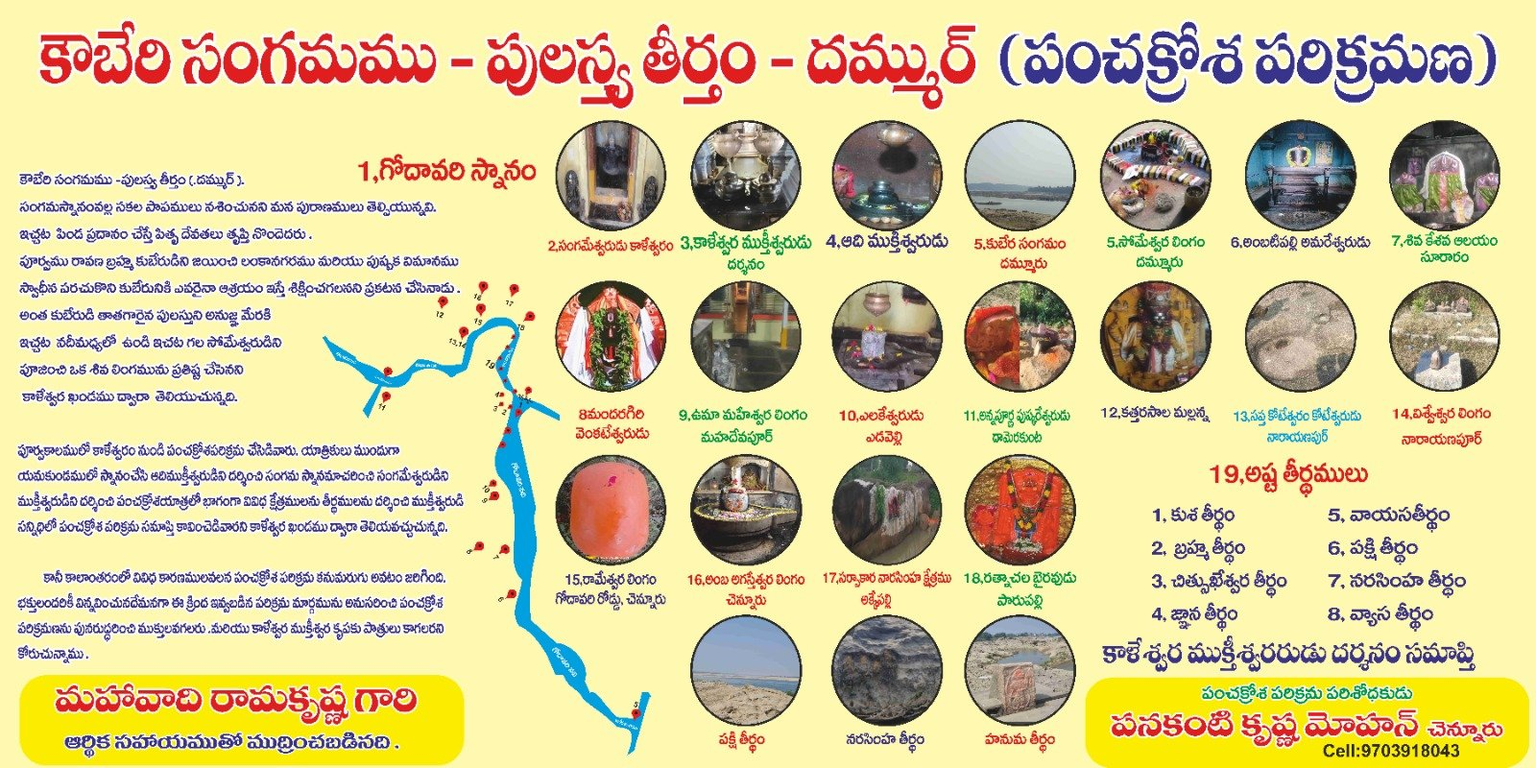
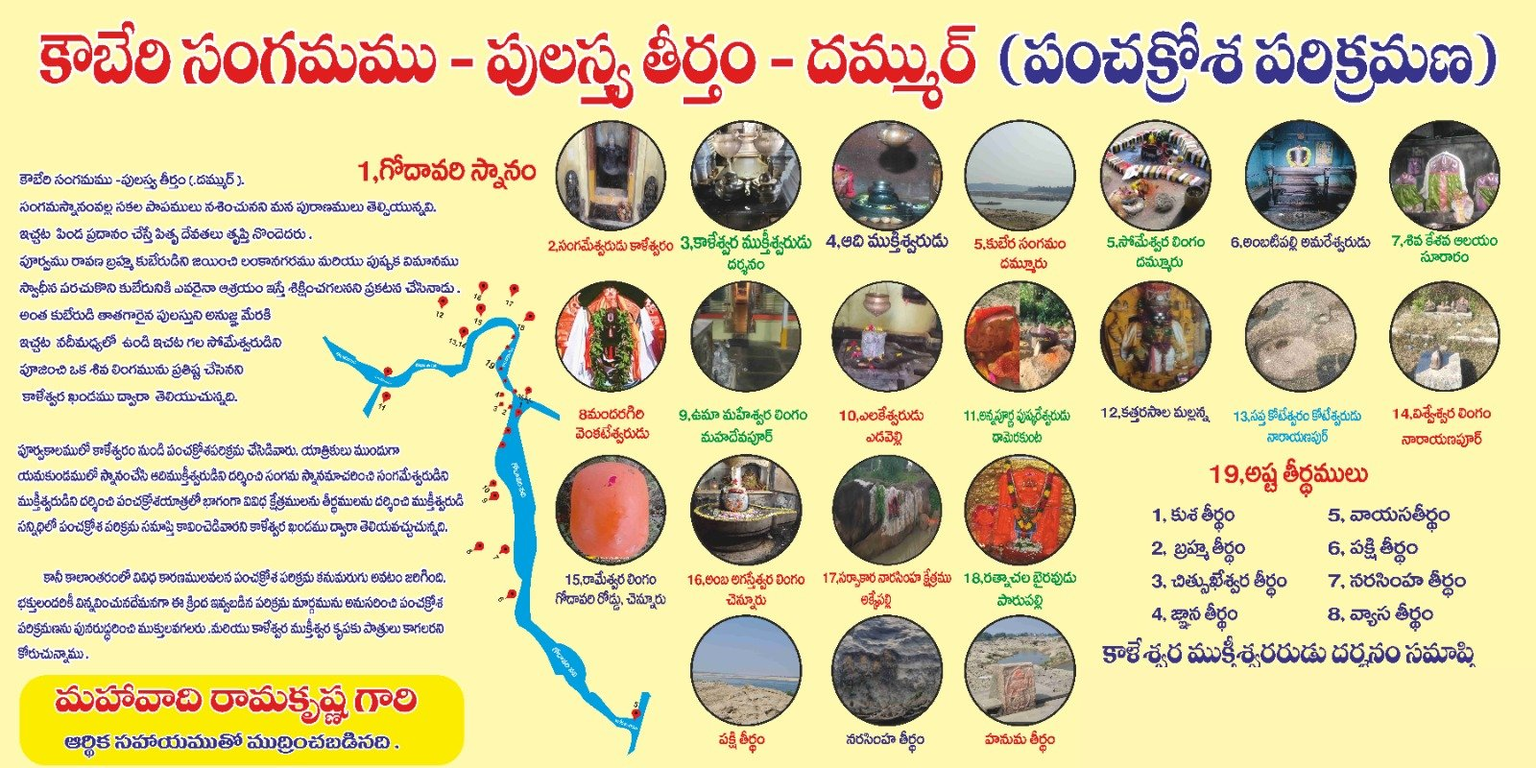
Add files via upload

Changed region(s): [[0.6875, 0.875, 1.0, 1.0]]

diff --git a/kaleshwaram-temples.html b/kaleshwaram-temples.html
@@ -42,7 +42,7 @@ footer a{color:#ffd28a}
 </style>
 <script type="application/ld+json">{"@context": "https://schema.org", "@type": "BreadcrumbList", "itemListElement": [{"@type": "ListItem", "position": 1, "name": "Home", "item": "https://rekshetratours.com/"}, {"@type": "ListItem", "position": 2, "name": "Kaleshwaram Parikrama", "item": "https://rekshetratours.com/kaleshwaram.html"}, {"@type": "ListItem", "position": 3, "name": "దేవాలయాలు", "item": "https://rekshetratours.com/kaleshwaram-temples.html"}]}</script>
 <script type="application/ld+json">{"@context": "https://schema.org", "@type": "Article", "headline": "కాళేశ్వరం దేవాలయాలు – Kaleshwaram Temples | 50 KM క్షేత్రాలు, పరిక్రమణ", "inLanguage": "te", "about": "Kaleshwaram Panchakrosa Godavari Parikrama", "mainEntityOfPage": "https://rekshetratours.com/kaleshwaram-temples.html", "author": {"@type": "Organization", "name": "Rekshetra Tours"}, "publisher": {"@type": "Organization", "name": "Rekshetra Tours", "logo": {"@type": "ImageObject", "url": "https://rekshetratours.com/logo.jpg"}}}</script>
-<script type="application/ld+json">{"@context": "https://schema.org", "@type": "ItemList", "name": "కాళేశ్వరం పంచక్రోశ పరిక్రమణ క్షేత్రాలు – Temples of Kaleshwaram Parikrama", "itemListElement": [{"@type": "ListItem", "position": 1, "name": "Godavari Snanam", "url": "https://rekshetratours.com/godavari-snanam.html"}, {"@type": "ListItem", "position": 2, "name": "Sangameshwara – Eleshwaram", "url": "https://rekshetratours.com/sangameshwara-eleshwaram.html"}, {"@type": "ListItem", "position": 3, "name": "Sri Kaleshwara Muktheeshwara Swamy", "url": "https://rekshetratours.com/sri-kaleshwara-muktheeshwara-swamy.html"}, {"@type": "ListItem", "position": 4, "name": "Adi Muktheeshwara", "url": "https://rekshetratours.com/adi-muktheeshwara.html"}, {"@type": "ListItem", "position": 5, "name": "Kubera Sangamam", "url": "https://rekshetratours.com/kubera-sangamam.html"}, {"@type": "ListItem", "position": 6, "name": "Ambatpally Amareshwara", "url": "https://rekshetratours.com/ambatpally-amareshwara.html"}, {"@type": "ListItem", "position": 7, "name": "Shiva Narayana Kshetram, Suraram", "url": "https://rekshetratours.com/shiva-keshava-suraram.html"}, {"@type": "ListItem", "position": 8, "name": "Ramadevigiri Venkateshwara", "url": "https://rekshetratours.com/ramadevigiri-venkateshwara.html"}, {"@type": "ListItem", "position": 9, "name": "Uma Maheshwara Lingam, Mahadevpur", "url": "https://rekshetratours.com/uma-maheshwara-mahadevpur.html"}, {"@type": "ListItem", "position": 10, "name": "Elakeshwara, Edapalli", "url": "https://rekshetratours.com/elakeshwara-edapalli.html"}, {"@type": "ListItem", "position": 11, "name": "Annapurna Pushkareshwara, Damarakunta", "url": "https://rekshetratours.com/annapurna-pushkareshwara-damarakunta.html"}, {"@type": "ListItem", "position": 12, "name": "Kattarasala Mallanna", "url": "https://rekshetratours.com/kattarasala-mallanna.html"}, {"@type": "ListItem", "position": 13, "name": "Saptakoteshwara, Narayanapur", "url": "https://rekshetratours.com/saptakoteshwara-narayanapur.html"}, {"@type": "ListItem", "position": 14, "name": "Vishweshwara Lingam, Narayanapur", "url": "https://rekshetratours.com/vishweshwara-lingam-narayanapur.html"}, {"@type": "ListItem", "position": 15, "name": "Rameshwara Lingam, Chennur", "url": "https://rekshetratours.com/rameshwara-lingam-chennur.html"}, {"@type": "ListItem", "position": 16, "name": "Amba Agastheeshwara Lingam, Chennur", "url": "https://rekshetratours.com/amba-agastheeshwara-chennur.html"}, {"@type": "ListItem", "position": 17, "name": "Sarpakara Narasimha Kshetram, Akkipally", "url": "https://rekshetratours.com/sarvakara-narasimha-kshetram.html"}, {"@type": "ListItem", "position": 18, "name": "Ratnachala Bhairava, Parupelli", "url": "https://rekshetratours.com/ratnachala-bhairava-parupelli.html"}]}</script>
+<script type="application/ld+json">{"@context": "https://schema.org", "@type": "ItemList", "name": "కాళేశ్వరం పంచక్రోశ పరిక్రమణ క్షేత్రాలు – Temples of Kaleshwaram Parikrama", "itemListElement": [{"@type": "ListItem", "position": 1, "name": "Godavari Snanam", "url": "https://rekshetratours.com/godavari-snanam.html"}, {"@type": "ListItem", "position": 2, "name": "Sangameshwara – Kaleshwaram", "url": "https://rekshetratours.com/sangameshwara-eleshwaram.html"}, {"@type": "ListItem", "position": 3, "name": "Sri Kaleshwara Muktheeshwara Swamy", "url": "https://rekshetratours.com/sri-kaleshwara-muktheeshwara-swamy.html"}, {"@type": "ListItem", "position": 4, "name": "Adi Muktheeshwara", "url": "https://rekshetratours.com/adi-muktheeshwara.html"}, {"@type": "ListItem", "position": 5, "name": "Kubera Sangamam", "url": "https://rekshetratours.com/kubera-sangamam.html"}, {"@type": "ListItem", "position": 6, "name": "Ambatpally Amareshwara", "url": "https://rekshetratours.com/ambatpally-amareshwara.html"}, {"@type": "ListItem", "position": 7, "name": "Shiva Narayana Kshetram, Suraram", "url": "https://rekshetratours.com/shiva-keshava-suraram.html"}, {"@type": "ListItem", "position": 8, "name": "Ramadevigiri Venkateshwara", "url": "https://rekshetratours.com/ramadevigiri-venkateshwara.html"}, {"@type": "ListItem", "position": 9, "name": "Uma Maheshwara Lingam, Mahadevpur", "url": "https://rekshetratours.com/uma-maheshwara-mahadevpur.html"}, {"@type": "ListItem", "position": 10, "name": "Elakeshwara, Edapalli", "url": "https://rekshetratours.com/elakeshwara-edapalli.html"}, {"@type": "ListItem", "position": 11, "name": "Annapurna Pushkareshwara, Damarakunta", "url": "https://rekshetratours.com/annapurna-pushkareshwara-damarakunta.html"}, {"@type": "ListItem", "position": 12, "name": "Kattarasala Mallanna", "url": "https://rekshetratours.com/kattarasala-mallanna.html"}, {"@type": "ListItem", "position": 13, "name": "Saptakoteshwara, Narayanapur", "url": "https://rekshetratours.com/saptakoteshwara-narayanapur.html"}, {"@type": "ListItem", "position": 14, "name": "Vishweshwara Lingam, Narayanapur", "url": "https://rekshetratours.com/vishweshwara-lingam-narayanapur.html"}, {"@type": "ListItem", "position": 15, "name": "Rameshwara Lingam, Chennur", "url": "https://rekshetratours.com/rameshwara-lingam-chennur.html"}, {"@type": "ListItem", "position": 16, "name": "Amba Agastheeshwara Lingam, Chennur", "url": "https://rekshetratours.com/amba-agastheeshwara-chennur.html"}, {"@type": "ListItem", "position": 17, "name": "Sarpakara Narasimha Kshetram, Akkipally", "url": "https://rekshetratours.com/sarvakara-narasimha-kshetram.html"}, {"@type": "ListItem", "position": 18, "name": "Ratnachala Bhairava, Parupelli", "url": "https://rekshetratours.com/ratnachala-bhairava-parupelli.html"}]}</script>
 </head>
 <body>
 <nav class="rt-nav" aria-label="Main"><a href="index.html">Home</a><a class="p" href="pujalu.html">🕉 పూజలు &amp; సేవలు</a><a href="kaleshwaram-temples.html">క్షేత్రములు</a><a href="ashta-theerthalu.html">తీర్థములు</a><a href="sangamamulu.html">సంగమములు</a><a href="tours.html">Tours</a><a href="plan.html">Plan Your Trip</a><a href="contact.html">Contact</a></nav>
@@ -62,7 +62,7 @@ footer a{color:#ffd28a}
 </section>
 <section>
 <h2 class="te">పంచక్రోశ పరిక్రమణలోని క్షేత్రాలు / Temples &amp; Sacred Places</h2>
-<ul class="grid"><li><a href="godavari-snanam.html" class="te">గోదావరి స్నానం<small>Godavari Snanam</small></a></li><li><a href="sangameshwara-eleshwaram.html" class="te">సంగమేశ్వరుడు – ఇళేశ్వరం<small>Sangameshwara – Eleshwaram</small></a></li><li><a href="sri-kaleshwara-muktheeshwara-swamy.html" class="te">శ్రీ కాళేశ్వర ముక్తేశ్వర స్వామి<small>Sri Kaleshwara Muktheeshwara Swamy</small></a></li><li><a href="adi-muktheeshwara.html" class="te">ఆది ముక్తేశ్వరుడు<small>Adi Muktheeshwara</small></a></li><li><a href="kubera-sangamam.html" class="te">కుబేర సంగమం<small>Kubera Sangamam</small></a></li><li><a href="ambatpally-amareshwara.html" class="te">అంబటిపల్లి అమరేశ్వరుడు<small>Ambatpally Amareshwara</small></a></li><li><a href="shiva-keshava-suraram.html" class="te">శివ నారాయణ క్షేత్రం – సూరారం<small>Shiva Narayana Kshetram, Suraram</small></a></li><li><a href="ramadevigiri-venkateshwara.html" class="te">రామదేవగిరి వెంకటేశ్వరుడు<small>Ramadevigiri Venkateshwara</small></a></li><li><a href="uma-maheshwara-mahadevpur.html" class="te">ఉమా మహేశ్వర లింగం – మహాదేవపూర్<small>Uma Maheshwara Lingam, Mahadevpur</small></a></li><li><a href="elakeshwara-edapalli.html" class="te">ఎలకేశ్వరుడు – ఎడపల్లి<small>Elakeshwara, Edapalli</small></a></li><li><a href="annapurna-pushkareshwara-damarakunta.html" class="te">అన్నపూర్ణ పుష్కరేశ్వరుడు – దామరకుంట<small>Annapurna Pushkareshwara, Damarakunta</small></a></li><li><a href="kattarasala-mallanna.html" class="te">కత్తరసాల మల్లన్న<small>Kattarasala Mallanna</small></a></li><li><a href="saptakoteshwara-narayanapur.html" class="te">సప్తకోటేశ్వరం – నారాయణపూర్<small>Saptakoteshwara, Narayanapur</small></a></li><li><a href="vishweshwara-lingam-narayanapur.html" class="te">విశ్వేశ్వర లింగం – నారాయణపూర్<small>Vishweshwara Lingam, Narayanapur</small></a></li><li><a href="rameshwara-lingam-chennur.html" class="te">రామేశ్వర లింగం – చెన్నూరు<small>Rameshwara Lingam, Chennur</small></a></li><li><a href="amba-agastheeshwara-chennur.html" class="te">అంబ అగస్తేశ్వర లింగం – చెన్నూరు<small>Amba Agastheeshwara Lingam, Chennur</small></a></li><li><a href="sarvakara-narasimha-kshetram.html" class="te">సర్పాకార నరసింహ క్షేత్రం – అక్కిపల్లి<small>Sarpakara Narasimha Kshetram, Akkipally</small></a></li><li><a href="ratnachala-bhairava-parupelli.html" class="te">రత్నాచల భైరవుడు – పారుపల్లి<small>Ratnachala Bhairava, Parupelli</small></a></li></ul>
+<ul class="grid"><li><a href="godavari-snanam.html" class="te">గోదావరి స్నానం<small>Godavari Snanam</small></a></li><li><a href="sangameshwara-eleshwaram.html" class="te">సంగమేశ్వరుడు – కాళేశ్వరం<small>Sangameshwara – Kaleshwaram</small></a></li><li><a href="sri-kaleshwara-muktheeshwara-swamy.html" class="te">శ్రీ కాళేశ్వర ముక్తేశ్వర స్వామి<small>Sri Kaleshwara Muktheeshwara Swamy</small></a></li><li><a href="adi-muktheeshwara.html" class="te">ఆది ముక్తేశ్వరుడు<small>Adi Muktheeshwara</small></a></li><li><a href="kubera-sangamam.html" class="te">కుబేర సంగమం<small>Kubera Sangamam</small></a></li><li><a href="ambatpally-amareshwara.html" class="te">అంబటిపల్లి అమరేశ్వరుడు<small>Ambatpally Amareshwara</small></a></li><li><a href="shiva-keshava-suraram.html" class="te">శివ నారాయణ క్షేత్రం – సూరారం<small>Shiva Narayana Kshetram, Suraram</small></a></li><li><a href="ramadevigiri-venkateshwara.html" class="te">రామదేవగిరి వెంకటేశ్వరుడు<small>Ramadevigiri Venkateshwara</small></a></li><li><a href="uma-maheshwara-mahadevpur.html" class="te">ఉమా మహేశ్వర లింగం – మహాదేవపూర్<small>Uma Maheshwara Lingam, Mahadevpur</small></a></li><li><a href="elakeshwara-edapalli.html" class="te">ఎలకేశ్వరుడు – ఎడపల్లి<small>Elakeshwara, Edapalli</small></a></li><li><a href="annapurna-pushkareshwara-damarakunta.html" class="te">అన్నపూర్ణ పుష్కరేశ్వరుడు – దామరకుంట<small>Annapurna Pushkareshwara, Damarakunta</small></a></li><li><a href="kattarasala-mallanna.html" class="te">కత్తరసాల మల్లన్న<small>Kattarasala Mallanna</small></a></li><li><a href="saptakoteshwara-narayanapur.html" class="te">సప్తకోటేశ్వరం – నారాయణపూర్<small>Saptakoteshwara, Narayanapur</small></a></li><li><a href="vishweshwara-lingam-narayanapur.html" class="te">విశ్వేశ్వర లింగం – నారాయణపూర్<small>Vishweshwara Lingam, Narayanapur</small></a></li><li><a href="rameshwara-lingam-chennur.html" class="te">రామేశ్వర లింగం – చెన్నూరు<small>Rameshwara Lingam, Chennur</small></a></li><li><a href="amba-agastheeshwara-chennur.html" class="te">అంబ అగస్తేశ్వర లింగం – చెన్నూరు<small>Amba Agastheeshwara Lingam, Chennur</small></a></li><li><a href="sarvakara-narasimha-kshetram.html" class="te">సర్పాకార నరసింహ క్షేత్రం – అక్కిపల్లి<small>Sarpakara Narasimha Kshetram, Akkipally</small></a></li><li><a href="ratnachala-bhairava-parupelli.html" class="te">రత్నాచల భైరవుడు – పారుపల్లి<small>Ratnachala Bhairava, Parupelli</small></a></li></ul>
 <p class="te" style="font-size:15px">ప్రతి క్షేత్రం వివరాలు క్రమంగా చేర్చబడుతున్నాయి.</p>
 </section>
 <section>

diff --git a/sangameshwara-eleshwaram.html b/sangameshwara-eleshwaram.html
@@ -1,11 +1,11 @@
 <!DOCTYPE html>
 <html lang="te">
 <head>
-<title>సంగమేశ్వరుడు – ఇళేశ్వరం – Sangameshwara – Eleshwaram | Kaleshwaram Panchakrosa Parikrama</title>
-<meta name="description" content="సంగమేశ్వరుడు – ఇళేశ్వరం (Sangameshwara – Eleshwaram) — కాళేశ్వరం పంచక్రోశ గోదావరి పరిక్రమణలో 2వ క్షేత్రం. Sangameshwara – Eleshwaram: details, how to reach from Kaleshwaram, Telangana.">
+<title>సంగమేశ్వరుడు – కాళేశ్వరం – Sangameshwara – Kaleshwaram | Kaleshwaram Panchakrosa Parikrama</title>
+<meta name="description" content="సంగమేశ్వరుడు – కాళేశ్వరం (Sangameshwara – Kaleshwaram) — కాళేశ్వరం పంచక్రోశ గోదావరి పరిక్రమణలో 2వ క్షేత్రం. Sangameshwara – Kaleshwaram: details, how to reach from Kaleshwaram, Telangana.">
 <meta name="robots" content="noindex, follow">
 <link rel="canonical" href="https://rekshetratours.com/sangameshwara-eleshwaram.html">
-<meta property="og:type" content="website"><meta property="og:title" content="సంగమేశ్వరుడు – ఇళేశ్వరం – Sangameshwara – Eleshwaram | Kaleshwaram Panchakrosa Parikrama"><meta property="og:description" content="సంగమేశ్వరుడు – ఇళేశ్వరం (Sangameshwara – Eleshwaram) — కాళేశ్వరం పంచక్రోశ గోదావరి పరిక్రమణలో 2వ క్షేత్రం. Sangameshwara – Eleshwaram: details, how to reach from Kaleshwaram, Telangana."><meta property="og:url" content="https://rekshetratours.com/sangameshwara-eleshwaram.html"><meta property="og:image" content="https://rekshetratours.com/logo.jpg">
+<meta property="og:type" content="website"><meta property="og:title" content="సంగమేశ్వరుడు – కాళేశ్వరం – Sangameshwara – Kaleshwaram | Kaleshwaram Panchakrosa Parikrama"><meta property="og:description" content="సంగమేశ్వరుడు – కాళేశ్వరం (Sangameshwara – Kaleshwaram) — కాళేశ్వరం పంచక్రోశ గోదావరి పరిక్రమణలో 2వ క్షేత్రం. Sangameshwara – Kaleshwaram: details, how to reach from Kaleshwaram, Telangana."><meta property="og:url" content="https://rekshetratours.com/sangameshwara-eleshwaram.html"><meta property="og:image" content="https://rekshetratours.com/logo.jpg">
 
 <meta charset="UTF-8">
 <meta name="viewport" content="width=device-width, initial-scale=1.0">
@@ -32,14 +32,14 @@ footer a{color:#ffd28a}
 .subnav{display:flex;flex-wrap:wrap;gap:8px;justify-content:center;margin:14px 0 4px}.subnav a{background:#fff0bd;color:#741b0b;border-radius:20px;padding:6px 14px;text-decoration:none;font-weight:600;font-size:14px}
 </style>
 
-<script type="application/ld+json">{"@context": "https://schema.org", "@type": "BreadcrumbList", "itemListElement": [{"@type": "ListItem", "position": 1, "name": "Home", "item": "https://rekshetratours.com/"}, {"@type": "ListItem", "position": 2, "name": "Kaleshwaram Panchakrosa Parikrama", "item": "https://rekshetratours.com/kaleshwaram.html"}, {"@type": "ListItem", "position": 3, "name": "సంగమేశ్వరుడు – ఇళేశ్వరం", "item": "https://rekshetratours.com/sangameshwara-eleshwaram.html"}]}</script>
+<script type="application/ld+json">{"@context": "https://schema.org", "@type": "BreadcrumbList", "itemListElement": [{"@type": "ListItem", "position": 1, "name": "Home", "item": "https://rekshetratours.com/"}, {"@type": "ListItem", "position": 2, "name": "Kaleshwaram Panchakrosa Parikrama", "item": "https://rekshetratours.com/kaleshwaram.html"}, {"@type": "ListItem", "position": 3, "name": "సంగమేశ్వరుడు – కాళేశ్వరం", "item": "https://rekshetratours.com/sangameshwara-eleshwaram.html"}]}</script>
 </head>
 <body>
 <nav class="rt-nav" aria-label="Main"><a href="index.html">Home</a><a class="p" href="pujalu.html">🕉 పూజలు &amp; సేవలు</a><a href="kaleshwaram-temples.html">క్షేత్రములు</a><a href="ashta-theerthalu.html">తీర్థములు</a><a href="sangamamulu.html">సంగమములు</a><a href="tours.html">Tours</a><a href="plan.html">Plan Your Trip</a><a href="contact.html">Contact</a></nav>
 
 <header>
-<h1 class="te">సంగమేశ్వరుడు – ఇళేశ్వరం</h1>
-<p>Sangameshwara – Eleshwaram</p>
+<h1 class="te">సంగమేశ్వరుడు – కాళేశ్వరం</h1>
+<p>Sangameshwara – Kaleshwaram</p>
 <p class="te">పంచక్రోశ గోదావరి పరిక్రమణ – కాళేశ్వరం – క్షేత్రాలు</p>
 </header>
 
@@ -48,7 +48,7 @@ footer a{color:#ffd28a}
 <section>
 <div><span class="tag">పరిక్రమణ క్రమ సంఖ్య: 2</span> <span class="tag">వర్గం: పంచక్రోశ క్షేత్రం</span></div>
 <h2 class="te">పరిచయం</h2>
-<p class="te">సంగమేశ్వరుడు – ఇళేశ్వరం (Sangameshwara – Eleshwaram) కాళేశ్వరం పంచక్రోశ గోదావరి పరిక్రమణలో దర్శించే క్షేత్రంలలో ఒకటి. ఈ క్షేత్రం వివరాలు త్వరలో ఇక్కడ చేర్చబడతాయి.</p>
+<p class="te">సంగమేశ్వరుడు – కాళేశ్వరం (Sangameshwara – Kaleshwaram) కాళేశ్వరం పంచక్రోశ గోదావరి పరిక్రమణలో దర్శించే క్షేత్రంలలో ఒకటి. ఈ క్షేత్రం వివరాలు త్వరలో ఇక్కడ చేర్చబడతాయి.</p>
 <p class="te"><span style="background:#FFF2A8;padding:0 6px;border-radius:3px;font-weight:600">ఇక్కడ మీ వివరణ రాయండి: పరిచయం, చరిత్ర / స్థల పురాణం, విశేషాలు</span></p>
 </section>
 <section>

diff --git a/sri-kaleshwara-muktheeshwara-swamy.html b/sri-kaleshwara-muktheeshwara-swamy.html
@@ -56,7 +56,7 @@ footer a{color:#ffd28a}
 <p class="te">కాళేశ్వరం నుండి దూరం: <span style="background:#FFF2A8;padding:0 6px;border-radius:3px;font-weight:600">____ కి.మీ.</span> • మార్గం: <span style="background:#FFF2A8;padding:0 6px;border-radius:3px;font-weight:600">____</span> • దర్శన సమయం: <span style="background:#FFF2A8;padding:0 6px;border-radius:3px;font-weight:600">____</span></p>
 <p class="te"><a href="how-to-reach.html">కాళేశ్వరం ఎలా చేరాలి</a> · <a href="timings.html">దర్శన సమయాలు</a> · <a href="stay.html">వసతి</a> · <a href="plan.html">యాత్ర ప్లాన్ చేయండి</a></p>
 </section>
-<section><div><a class="tag" href="sangameshwara-eleshwaram.html">← సంగమేశ్వరుడు – ఇళేశ్వరం</a> <a class="tag" href="adi-muktheeshwara.html">ఆది ముక్తేశ్వరుడు →</a></div></section>
+<section><div><a class="tag" href="sangameshwara-eleshwaram.html">← సంగమేశ్వరుడు – కాళేశ్వరం</a> <a class="tag" href="adi-muktheeshwara.html">ఆది ముక్తేశ్వరుడు →</a></div></section>
 <a class="backlink" href="kaleshwaram.html">← పరిక్రమణ పేజీకి తిరిగి వెళ్ళండి / Back to Parikrama Page</a>
 </main>
 

diff --git a/sangamamulu.html b/sangamamulu.html
@@ -74,7 +74,7 @@ footer a{color:#ffd28a}
 </section>
 <section>
 <h2 class="te">సంగమేశ్వరుడు మరియు గోదావరి స్నానం</h2>
-<p class="te">సంప్రదాయ పరిక్రమణ క్రమంలో యమకుండ స్నానం, ఆది ముక్తేశ్వర దర్శనం, సంగమ స్నానం, సంగమేశ్వర దర్శనం ఉంటాయి. చూడండి: <a href="sangameshwara-eleshwaram.html">సంగమేశ్వరుడు – ఇళేశ్వరం</a> · <a href="godavari-snanam.html">గోదావరి స్నానం</a></p>
+<p class="te">సంప్రదాయ పరిక్రమణ క్రమంలో యమకుండ స్నానం, ఆది ముక్తేశ్వర దర్శనం, సంగమ స్నానం, సంగమేశ్వర దర్శనం ఉంటాయి. చూడండి: <a href="sangameshwara-eleshwaram.html">సంగమేశ్వరుడు – కాళేశ్వరం</a> · <a href="godavari-snanam.html">గోదావరి స్నానం</a></p>
 </section>
 <section>
 <h2 class="te">యాత్రికులకు సూచనలు</h2>

diff --git a/godavari-snanam.html b/godavari-snanam.html
@@ -56,7 +56,7 @@ footer a{color:#ffd28a}
 <p class="te">కాళేశ్వరం నుండి దూరం: <span style="background:#FFF2A8;padding:0 6px;border-radius:3px;font-weight:600">____ కి.మీ.</span> • మార్గం: <span style="background:#FFF2A8;padding:0 6px;border-radius:3px;font-weight:600">____</span> • దర్శన సమయం: <span style="background:#FFF2A8;padding:0 6px;border-radius:3px;font-weight:600">____</span></p>
 <p class="te"><a href="how-to-reach.html">కాళేశ్వరం ఎలా చేరాలి</a> · <a href="timings.html">దర్శన సమయాలు</a> · <a href="stay.html">వసతి</a> · <a href="plan.html">యాత్ర ప్లాన్ చేయండి</a></p>
 </section>
-<section><div> <a class="tag" href="sangameshwara-eleshwaram.html">సంగమేశ్వరుడు – ఇళేశ్వరం →</a></div></section>
+<section><div> <a class="tag" href="sangameshwara-eleshwaram.html">సంగమేశ్వరుడు – కాళేశ్వరం →</a></div></section>
 <a class="backlink" href="kaleshwaram.html">← పరిక్రమణ పేజీకి తిరిగి వెళ్ళండి / Back to Parikrama Page</a>
 </main>
 

diff --git a/kaleshwaram.html b/kaleshwaram.html
@@ -93,7 +93,7 @@ The pilgrimage information includes Godavari Snanam, sacred river confluences, t
 <h2>🛕 పంచక్రోశ పరిక్రమణలోని క్షేత్రాలు</h2>
 <ol class="te">
 <li><a href="godavari-snanam.html">గోదావరి స్నానం</a></li>
-<li><a href="sangameshwara-eleshwaram.html">సంగమేశ్వరుడు – ఇళేశ్వరం</a></li>
+<li><a href="sangameshwara-eleshwaram.html">సంగమేశ్వరుడు – కాళేశ్వరం</a></li>
 <li><a href="sri-kaleshwara-muktheeshwara-swamy.html">శ్రీ కాళేశ్వర ముక్తేశ్వర స్వామి దర్శనం</a></li>
 <li><a href="adi-muktheeshwara.html">ఆది ముక్తేశ్వరుడు</a></li>
 <li><a href="kubera-sangamam.html">కుబేర సంగమం</a></li>
@@ -117,7 +117,7 @@ The pilgrimage information includes Godavari Snanam, sacred river confluences, t
 <h2>🛕 Temples & Sacred Places – English</h2>
 <ol>
 <li>Godavari Snanam</li>
-<li>Sangameshwara – Eleshwaram</li>
+<li>Sangameshwara – Kaleshwaram</li>
 <li>Sri Kaleshwara Muktheeshwara Swamy</li>
 <li>Adi Muktheeshwara</li>
 <li>Kubera Sangamam</li>
